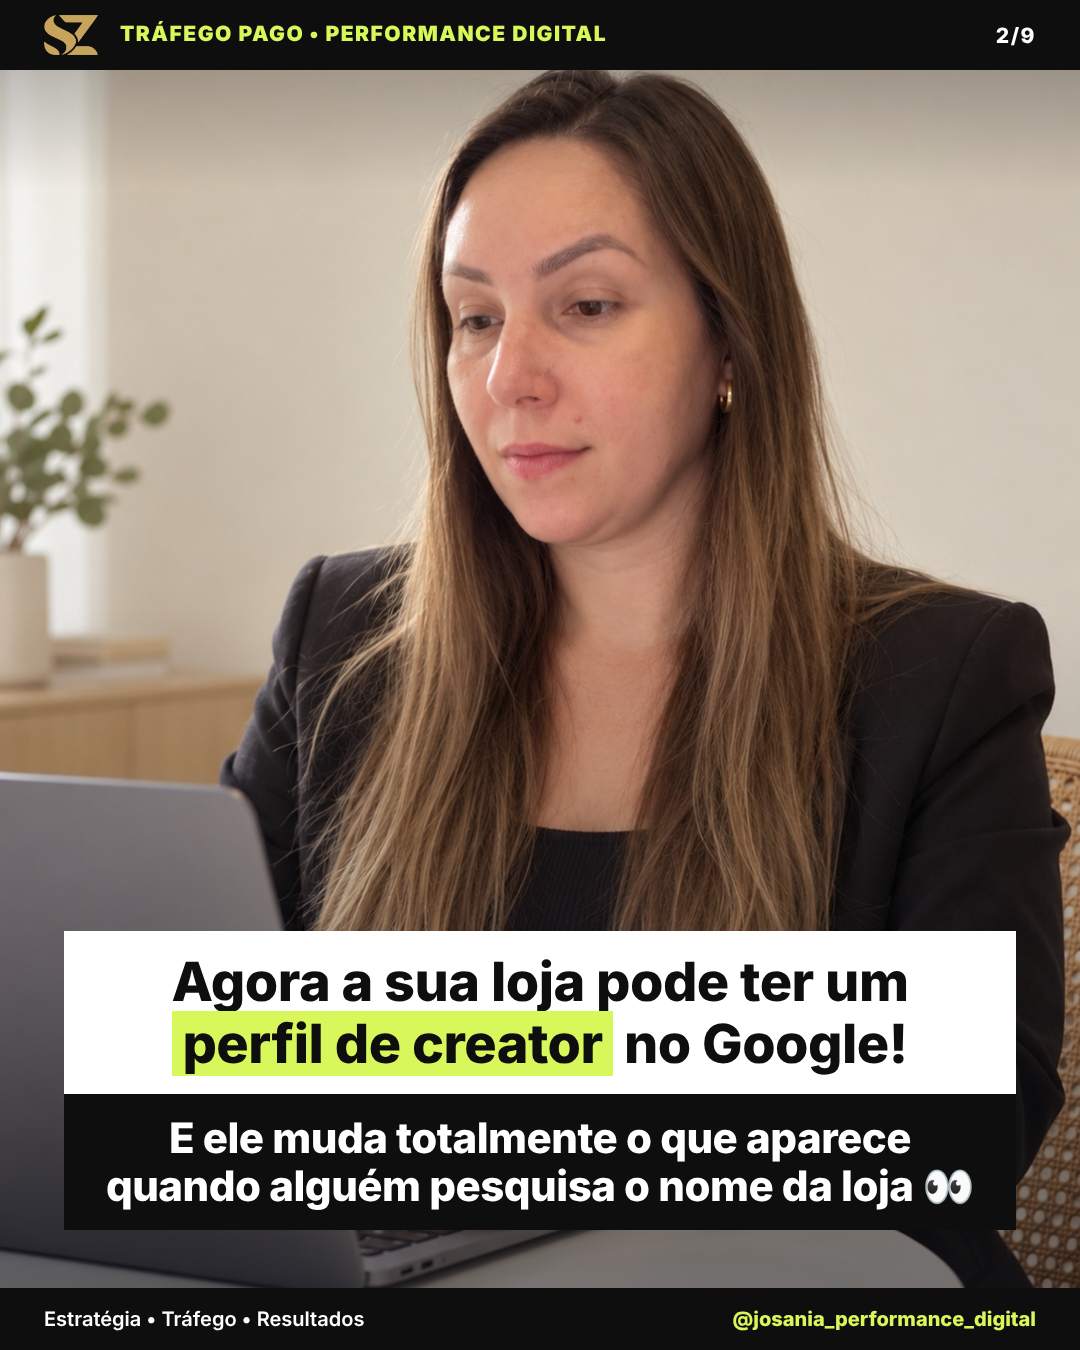
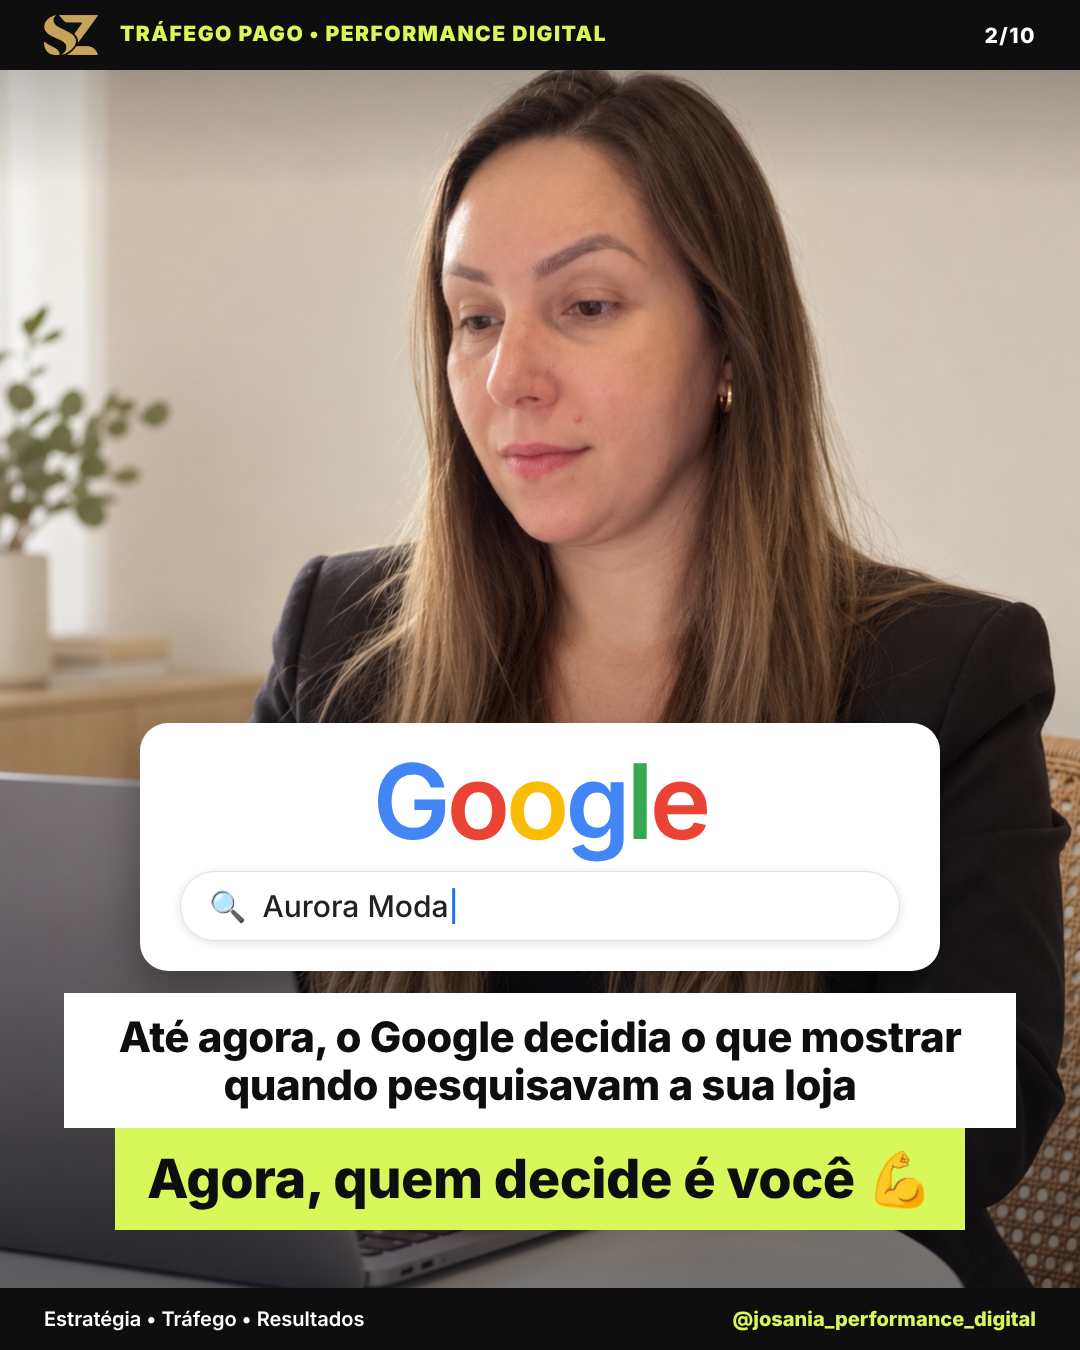
Nova versão do carrossel: celulares antes/agora, 3 lugares, regra dos 10 mil e 2 caminhos
Claude-Session: https://claude.ai/code/session_01Cdq3fSAdowyFYcw5UgbxcJ

Changed region(s): [[0.0611, 0.5289, 0.9472, 0.9333], [0.9167, 0.0, 0.9472, 0.0311]]

diff --git a/conteudos/carrossel-perfil-google/gerar.py b/conteudos/carrossel-perfil-google/gerar.py
@@ -78,6 +78,28 @@ body{{width:1080px;height:1350px;overflow:hidden;font-family:Inter,sans-serif}}
 .tile span{{display:block;font-size:68px;margin-bottom:8px}}
 .acoes{{background:#fff;border-radius:28px;padding:22px 46px;display:flex;gap:56px;align-items:center;margin-bottom:22px;box-shadow:0 18px 50px rgba(0,0,0,.4);font-size:84px}}
 .acoes .cur{{font-size:130px;filter:drop-shadow(0 6px 14px rgba(234,67,53,.45))}}
+.cels{{display:flex;gap:26px;align-items:center;margin-top:18px}}
+.cel{{position:relative;background:#fff;border:10px solid #e6e8ec;border-radius:44px;box-shadow:0 18px 50px rgba(0,0,0,.45);overflow:hidden;font-family:Inter;color:#202124;text-align:left}}
+.cel .st{{display:flex;justify-content:space-between;font:700 15px Inter;padding:12px 22px 4px}}
+.selo-cel{{position:absolute;top:-2px;left:50%;transform:translateX(-50%);padding:8px 26px;border-radius:0 0 18px 18px;font:900 24px Inter;color:#fff;z-index:2}}
+.seta{{font:900 96px Inter;color:#fff;text-shadow:0 4px 14px rgba(0,0,0,.6)}}
+.linha{{height:9px;border-radius:5px;background:#e3e5e8;margin:7px 0}}
+.linha.az{{background:#8ab4f8}}
+.ico{{display:inline-flex;align-items:center;justify-content:center;width:34px;height:34px;border-radius:50%;color:#fff;font:800 15px Inter;margin-right:6px}}
+.ig{{background:radial-gradient(circle at 30% 107%,#fdf497 0%,#fd5949 45%,#d6249f 60%,#285AEB 90%)}}
+.yt{{background:#FF0000}}.tt{{background:#000}}.web{{background:#1a73e8}}
+.avatar{{width:96px;height:96px;border-radius:50%;background:#F6D6D0;display:flex;align-items:center;justify-content:center;font-size:52px;flex:none}}
+.btn-seguir{{background:#1a73e8;color:#fff;border-radius:24px;text-align:center;font:700 18px Inter;padding:10px;margin:14px 0 8px}}
+.abas{{display:flex;gap:22px;font-size:15px;color:#5f6368;border-bottom:1px solid #eee;padding-bottom:8px}}
+.abas b{{color:#1a73e8;border-bottom:3px solid #1a73e8;padding-bottom:6px}}
+.mini{{display:flex;gap:8px;margin-top:10px}}
+.mini div{{flex:1;height:96px;border-radius:10px;display:flex;align-items:center;justify-content:center;font-size:40px}}
+.rotulo{{display:inline-block;background:#fff;color:#0E0E0E;border-radius:20px;padding:6px 16px;font:800 20px Inter;margin-bottom:10px}}
+.opcoes{{display:flex;gap:18px;width:940px;margin-top:16px}}
+.opcao{{flex:1;background:#fff;border-radius:24px;padding:26px 20px;text-align:center;color:#0E0E0E;box-shadow:0 10px 30px rgba(0,0,0,.35)}}
+.opcao span{{display:block;font-size:76px}}
+.opcao b{{display:block;font:900 34px Inter;margin:8px 0}}
+.opcao p{{font:500 23px Inter;color:#3c4043;line-height:1.3}}
 .chip{{display:inline-block;border:1px solid #dadce0;border-radius:20px;padding:6px 14px;font-size:15px;margin-right:8px}}
 .circ{{outline:6px solid {ouro};outline-offset:6px;border-radius:16px}}
 """
@@ -101,7 +123,6 @@ def google(nome, corpo, largura=900):
 {corpo}</div>"""
 
 
-# Exemplos fictícios: uma criadora de moda (Perfil na Pesquisa) e uma loja (Perfil da Empresa)
 # Exemplo fictício: loja de roupas com +10 mil seguidores no Instagram
 LOJA = {"nome": "Aurora Moda", "perfil": "@auroramoda.loja"}
 PECAS = [("#F6D6D0", "👗", "Coleção nova ▶"), ("#D9E4F2", "👖", "Look do dia"), ("#F3E7C9", "👚", "Promo da semana")]
@@ -123,36 +144,69 @@ def busca(texto):
     return f'<div class="gcard">{logo_google()}<div class="gsearch">🔍&nbsp; {texto}<b>|</b></div></div>'
 
 
+ICONES = '<span class="ico ig">◎</span><span class="ico yt">▶</span><span class="ico tt">♪</span><span class="ico web">🌐</span>'
+
+
+def celular(miolo, largura=380, rotulo="", cor_rotulo="#5f6368"):
+    tag = f'<div class="selo-cel" style="background:{cor_rotulo}">{rotulo}</div>' if rotulo else ""
+    return (f'<div class="cel" style="width:{largura}px">{tag}<div class="st"><span>9:41</span><span>▂▄▆ ▮</span></div>'
+            f'<div style="padding:14px 20px 22px">{miolo}</div></div>')
+
+
+def tela_busca(nome, com_perfil=False):
+    resultados = "".join(
+        f'<div style="margin-top:16px;font-size:15px">{ico} {site}</div><div class="linha az" style="width:70%"></div><div class="linha"></div>'
+        for ico, site in [('<span class="ico ig" style="width:24px;height:24px;font-size:11px">◎</span>', "instagram.com"),
+                          ('<span class="ico web" style="width:24px;height:24px;font-size:11px">🌐</span>', "outros sites"),
+                          ('<span class="ico yt" style="width:24px;height:24px;font-size:11px">▶</span>', "youtube.com")]
+    )
+    if com_perfil:
+        resultados = (f'<div style="display:flex;gap:10px;align-items:center;margin-top:14px;padding:10px;border:1px solid #e3e5e8;border-radius:14px">'
+                      f'<div class="avatar" style="width:50px;height:50px;font-size:28px">👗</div><div><div style="font:800 16px Inter">{nome} <span style="color:#1a73e8">✔</span></div>'
+                      f'<div style="font-size:12px;color:#5f6368">Loja de roupas · Ver perfil ›</div></div></div>' + resultados[:resultados.index('<div style="margin-top:16px;font-size:15px">', 10)])
+    return (f'<div style="text-align:center;margin-top:16px">{logo_google("glogo")}</div>'
+            f'<div class="gin" style="margin:12px 0 6px;font-size:18px">🔍 {nome}</div>{resultados}')
+
+
+def tela_perfil(nome):
+    return (f'<div style="display:flex;justify-content:space-between;align-items:center"><span>←</span>{logo_google("glogo")}<span>⋮</span></div>'
+            f'<div style="display:flex;gap:14px;align-items:center;margin-top:16px"><div class="avatar">👗</div>'
+            f'<div><div style="font:800 22px Inter">{nome} <span style="color:#1a73e8">✔</span></div>'
+            f'<div style="font-size:14px;color:#5f6368">Loja de roupas femininas</div><div style="margin-top:8px">{ICONES}</div></div></div>'
+            f'<div class="btn-seguir">Seguir</div><div class="abas"><b>Sobre</b><span>Posts</span><span>Vídeos</span><span>Fotos</span></div>'
+            f'<div class="mini"><div style="background:#F6D6D0">👗</div><div style="background:#D9E4F2">👖</div><div style="background:#F3E7C9">👚</div></div>')
+
+
+def tela_discover(nome):
+    return (f'<div style="text-align:center;margin-top:8px">{logo_google("glogo")}</div><div class="gin" style="margin:10px 0;font-size:15px">🔍 Pesquisar</div>'
+            f'<div style="height:150px;border-radius:14px;background:#F6D6D0;display:flex;align-items:center;justify-content:center;font-size:70px">👗</div>'
+            f'<div style="font:800 17px Inter;margin-top:10px">{nome} <span style="color:#1a73e8">✔</span></div><div style="margin-top:6px">{ICONES}</div>')
+
+
 def slides(m):
-    nome, perfil = LOJA["nome"], LOJA["perfil"]
-    usuario = perfil.lstrip("@")
-    antes = google(nome, f"""
-<div class="res"><div class="src">instagram.com › {usuario}</div><div class="tit">{nome} (@{usuario}) • Fotos e vídeos do Instagram</div>
-<div class="desc">Veja as fotos e vídeos do Instagram de {nome}…</div></div>
-<div class="res"><div class="src">facebook.com › {usuario}</div><div class="tit">{nome} | Facebook</div><div class="desc">Moda feminina…</div></div>""")
-    depois = google(nome, f"""
-<div class="res"><div class="src">Instagram · {perfil}</div><div class="tit">{nome} | Moda feminina</div>
-<div class="desc">Peças novas toda semana, looks e promoções…</div>
-<div class="src" style="margin-top:14px;font-weight:700">Posts mais recentes</div>
-<div class="posts circ">{miniaturas()}</div></div>""")
-    perfil_pg = f"""<div class="mock" style="width:760px">
-<div style="background:{m['cor_fundo']};color:#fff;padding:28px 30px"><div style="font:800 40px Inter">{nome}</div><div style="font-size:18px;opacity:.8">{perfil} · Perfil de criador</div></div>
-<div style="padding:20px 30px"><span class="chip">+ Seguir no Google</span><span class="chip">Instagram</span><span class="chip">TikTok</span><span class="chip">YouTube</span>
-<div class="src" style="margin:18px 0 6px;font-weight:700">Posts mais recentes</div><div class="posts">{miniaturas()}</div></div></div>"""
-    link = f"""<div class="mock" style="width:760px"><div style="background:{m['cor_fundo']};color:{m['cor_primaria']};padding:40px 30px;text-align:center;font:800 38px Inter">Sua presença oficial<br>no Google</div>
-<div style="padding:22px 30px;background:#eef3ff"><div style="font:700 24px Inter">Google para Criadores | Perfil na Pesquisa</div>
-<div class="desc" style="font-size:19px;margin-top:6px">Uma nova maneira de criadores, marcas e publishers se destacarem na Pesquisa.</div>
-<div class="src" style="margin-top:10px;font-size:18px">🔗 creators.google</div></div></div>"""
+    nome = LOJA["nome"]
+    antes_agora = (f'<div class="cels">{celular(tela_busca(nome), 400, "ANTES")}<div class="seta">→</div>'
+                   f'{celular(tela_perfil(nome), 420, "AGORA", "#1a73e8")}</div>')
+    tres = (f'<div class="cels" style="gap:16px">'
+            f'<div style="text-align:center"><div class="rotulo">🔍 Na busca</div>{celular(tela_busca(nome, True), 290)}</div>'
+            f'<div style="text-align:center"><div class="rotulo">👤 Página da loja</div>{celular(tela_perfil(nome).replace("font:800 22px", "font:800 17px"), 300)}</div>'
+            f'<div style="text-align:center"><div class="rotulo">✨ No Discover</div>{celular(tela_discover(nome), 290)}</div></div>')
+    recursos = [("📸", "Foto e bio que VOCÊ escolhe"), ("🔗", "Até 12 links"), ("⭐", "Posts em destaque"), ("📱", "Todas as redes num lugar só")]
+    passos = [("🌐", "1) Acesse o site creators.google"), ("📸", "2) Entre com o Instagram da loja"), ("🔗", "3) Conecte as outras redes (se quiser)"), ("✅", "4) Conclua e personalize")]
+    grade = lambda itens: '<div class="grade">' + "".join(f'<div class="tile" style="font-size:29px"><span>{e}</span>{t}</div>' for e, t in itens) + "</div>"
     return [
-        f'<img class="selo canto" src="{m["sz_uri"]}"><div class="box ouro sm">🚨 Alerta de ATUALIZAÇÃO</div><div class="box escuro big">que vai fazer a sua loja <span class="hl">aparecer muito mais</span> no Google!</div>',
-        '<div class="box branco">Agora a sua loja pode ter um <span class="hla">perfil de creator</span> no Google!</div><div class="box escuro sm">E ele muda totalmente o que aparece quando alguém pesquisa o nome da loja 👀</div>',
-        f'<div class="box escuro sm">ANTES: esse era o resultado que aparecia quando pesquisavam a loja 👇</div>{antes}{NOTA}',
-        f'<div class="box escuro sm">E agora esse é o resultado que aparece DEPOIS que a loja criou o perfil no <span class="hl">Google creator!</span> 👇</div><div class="box lima" style="font-size:34px">✅ Muito mais completo, e com links que levam direto para os conteúdos do Instagram da loja!</div>{depois}{NOTA}',
-        f'<div class="box branco sm">E tem mais, se a cliente clicar em “ver perfil do creator” ela é <span class="hla">direcionada</span> para uma página com <span class="hla">todos os links das redes sociais</span> da loja 👌🔥</div>{perfil_pg}{NOTA}',
-        f'<div class="box escuro sm">E para criar o perfil é muito simples.</div><div class="box branco sm">1) Basta você acessar o site:</div><div class="box lima" style="font-size:40px">https://creators.google/pt-BR/profile</div>{link}',
-        '<div class="box escuro sm">2) Conecte o perfil do Instagram da loja para validar a inscrição</div><div class="box ouro xs">(Válido apenas para quem tem mais de 10 mil seguidores)</div><div class="gap"></div><div class="box branco sm">3) Conecte as outras redes sociais (se quiser)</div><div class="gap"></div><div class="box lima sm">4) Conclua o cadastro e acesse o perfil da loja no Google</div>',
-        '<div class="box escuro sm">5) Agora é só personalizar para deixar todas as informações da loja atualizadas</div><div class="gap"></div><div class="box branco sm">Depois é só pesquisar o nome da loja no Google para ver como ficou! 🎉</div>',
-        f'<img class="selo" src="{m["sz_uri"]}"><div class="box lima">Gostou? Já curte esse post ❤</div><div class="box branco">E se quiser receber mais conteúdos como esse é só seguir</div><div class="box escuro" style="font-size:52px">{m["perfil"]}</div>',
+        f'<img class="selo canto" src="{m["sz_uri"]}"><div class="box ouro sm">🚨 Chegou no Brasil!</div><div class="box escuro">Desde o dia 27, a sua loja pode ter uma <span class="hl">página oficial no Google</span></div>',
+        f'{busca(nome)}<div class="box branco sm">Até agora, o Google decidia o que mostrar quando pesquisavam a sua loja</div><div class="box lima">Agora, quem decide é você 💪</div>',
+        f'<div class="box escuro sm">Olha a diferença 👇</div>{antes_agora}{NOTA}',
+        f'<div class="box escuro sm">No perfil, a sua loja pode ter:</div>{grade(recursos)}',
+        f'<div class="box escuro sm">E ele aparece em <span class="hl">3 lugares</span> 👇</div>{tres}<div class="nota">Discover = o feed da tela inicial do app do Google</div>',
+        '<div class="box escuro">Pra ter, precisa de <span class="hl">10 mil seguidores</span></div><div class="box branco sm">no Instagram, TikTok, YouTube ou X</div><div class="gap"></div><div class="box ouro sm">⚠ Não dá pra somar as redes: os 10 mil têm que estar numa conta só</div>',
+        f'<div class="box escuro sm">Pra criar é simples:</div>{grade(passos)}',
+        '<div class="box branco">Ainda não tem 10 mil seguidores? 🤔</div><div class="box lima sm">Tem 2 caminhos pra resolver:</div><div class="opcoes">'
+        '<div class="opcao"><span>🚀</span><b>Tráfego pago</b><p>Anúncios pra levar as clientes certas pro seu perfil e crescer mais rápido</p></div>'
+        '<div class="opcao"><span>📍</span><b>Google Meu Negócio</b><p>Grátis, e faz a sua loja aparecer no Google e no Maps desde já</p></div></div>',
+        '<div class="acoes"><span>📌</span><span class="cur">❤</span><span>📲</span></div><div class="box branco big" style="font-size:60px">Salva esse post pra fazer com calma</div><div class="box lima sm">e já curte se te ajudou ❤</div>',
+        f'<img class="selo" src="{m["sz_uri"]}"><div class="box branco">Quer ajuda com tráfego pago ou Google Meu Negócio?</div><div class="box escuro sm">Me segue que eu te ensino<br>o passo a passo 👣</div><div class="box lima" style="font-size:52px">{m["perfil"]}</div>',
     ]
 
 
